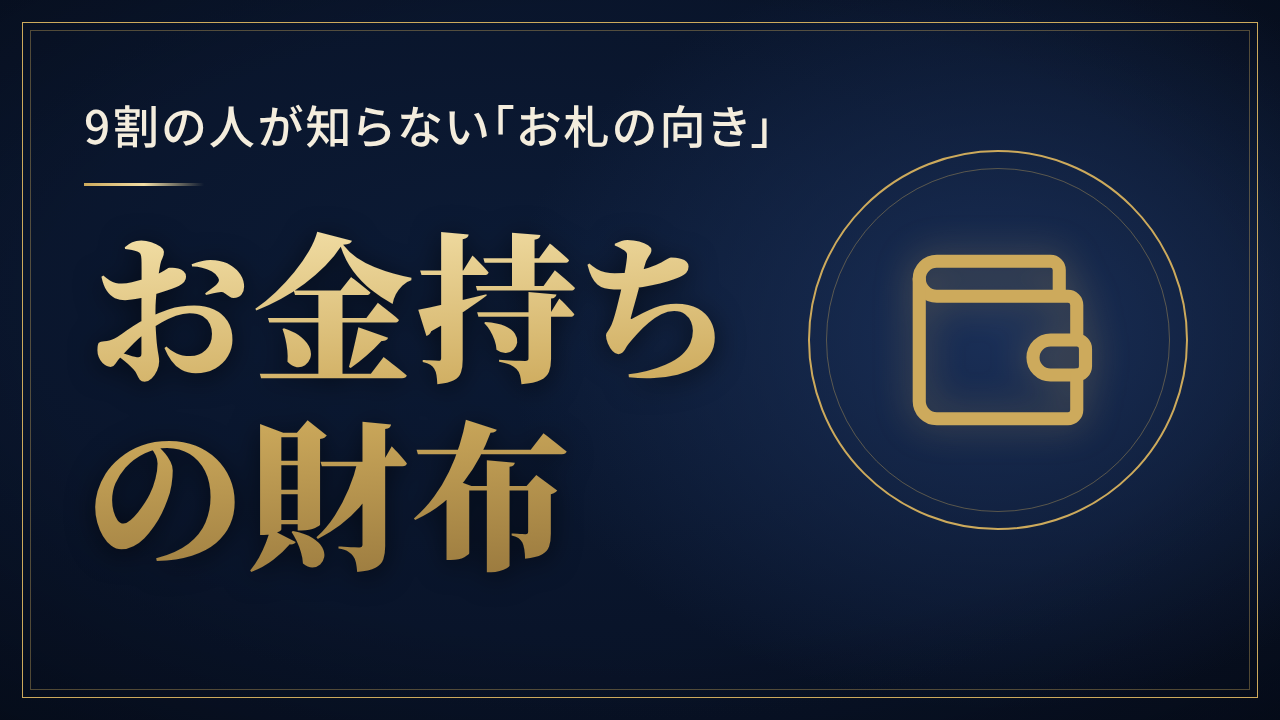
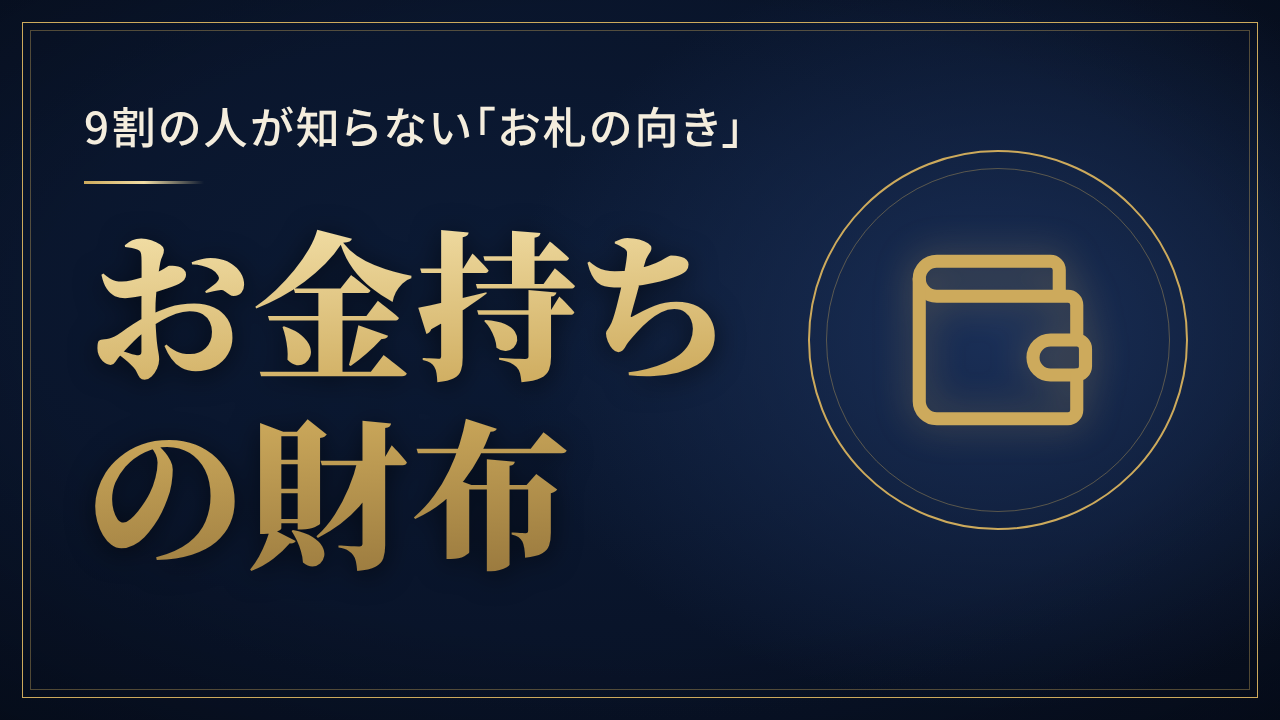
WIP: team progress on money-zatsugaku
Claude-Session: https://claude.ai/code/session_01VsknyA5xtCU6ohujfioSNB

diff --git a/money-zatsugaku/design/templates/thumbnail.html b/money-zatsugaku/design/templates/thumbnail.html
@@ -21,7 +21,7 @@
   .frame { position: absolute; inset: 22px; border: 1.5px solid var(--gold); pointer-events: none; }
   .frame::before { content: ""; position: absolute; inset: 7px; border: 1px solid var(--line); }
 
-  .text { position: absolute; left: 84px; top: 70px; width: 720px; height: 560px;
+  .text { position: absolute; left: 84px; top: 70px; width: 670px; height: 560px;
           display: flex; flex-direction: column; justify-content: center; }
   .sub-box { width: 100%; flex: none; }
   .sub { display: block; max-width: 100%; white-space: nowrap; font-family: var(--font-sans); font-weight: 500;
